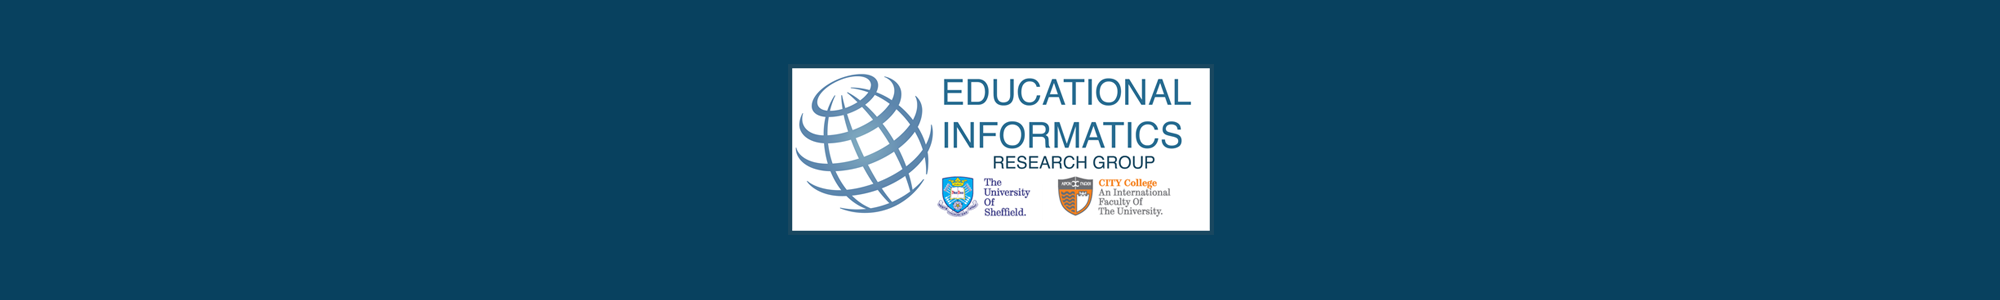
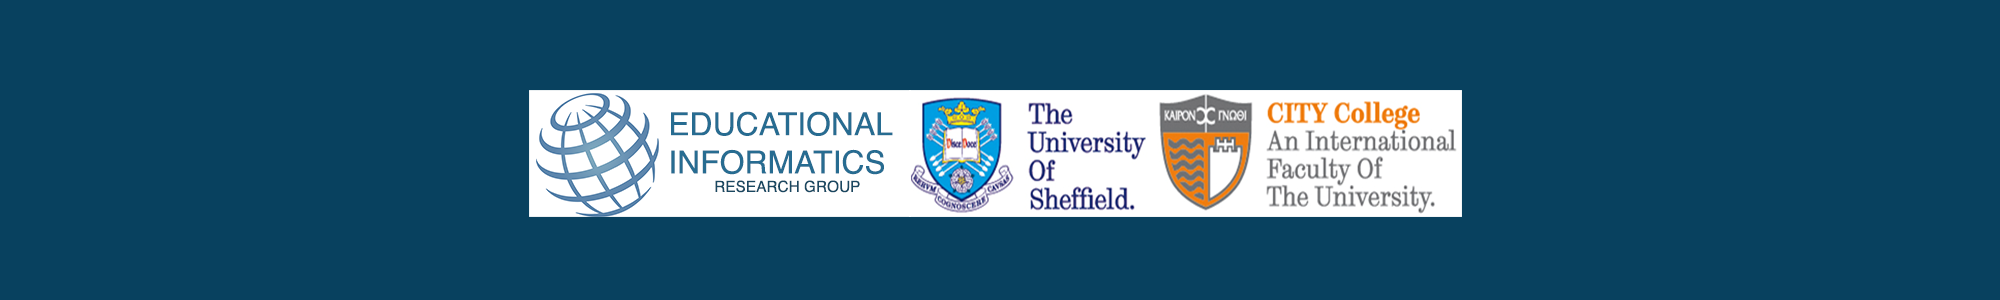
new header, added map to contact page

Changed region(s): [[0.248, 0.21, 0.744, 0.78]]

diff --git a/app/assets/javascripts/contact.js b/app/assets/javascripts/contact.js
@@ -1,0 +1,22 @@
+$(function() {
+  function initContactMap() {
+    var mLocation = new google.maps.LatLng(40.6374643,22.9346953);
+
+    var mOptions = {
+      center: mLocation,
+      zoom: 14
+    };
+
+    var mMarker = new google.maps.Marker({
+      position: mLocation,
+      map: mMap,
+      title:"Leontos Sofou Building"
+    });
+
+    var mMap = new google.maps.Map(document.getElementById("contact-map"),
+            mOptions);
+
+		mMarker.setMap(mMap);
+  }
+  google.maps.event.addDomListener(window, 'load', initContactMap);
+})

diff --git a/app/assets/stylesheets/contact.scss b/app/assets/stylesheets/contact.scss
@@ -13,4 +13,15 @@
 
 #contact-map {
   @extend .col-md-6;
+  @include breakpoint(md) {
+    height: 100%;
+  }
+
+  @include breakpoint(sm) {
+    height: 300px;
+  }
+
+  @include breakpoint(xs) {
+    height: 200px;
+  }
 }

diff --git a/app/assets/stylesheets/application.scss b/app/assets/stylesheets/application.scss
@@ -22,6 +22,7 @@ body {
     display: flex;
     min-height: 100vh;
     flex-direction: column;
+    width: 100%;
 }
 
 header {

diff --git a/app/assets/javascripts/application.js b/app/assets/javascripts/application.js
@@ -19,3 +19,4 @@
 //= require modernizr
 //= require header
 //= require publications
+//= require contact
